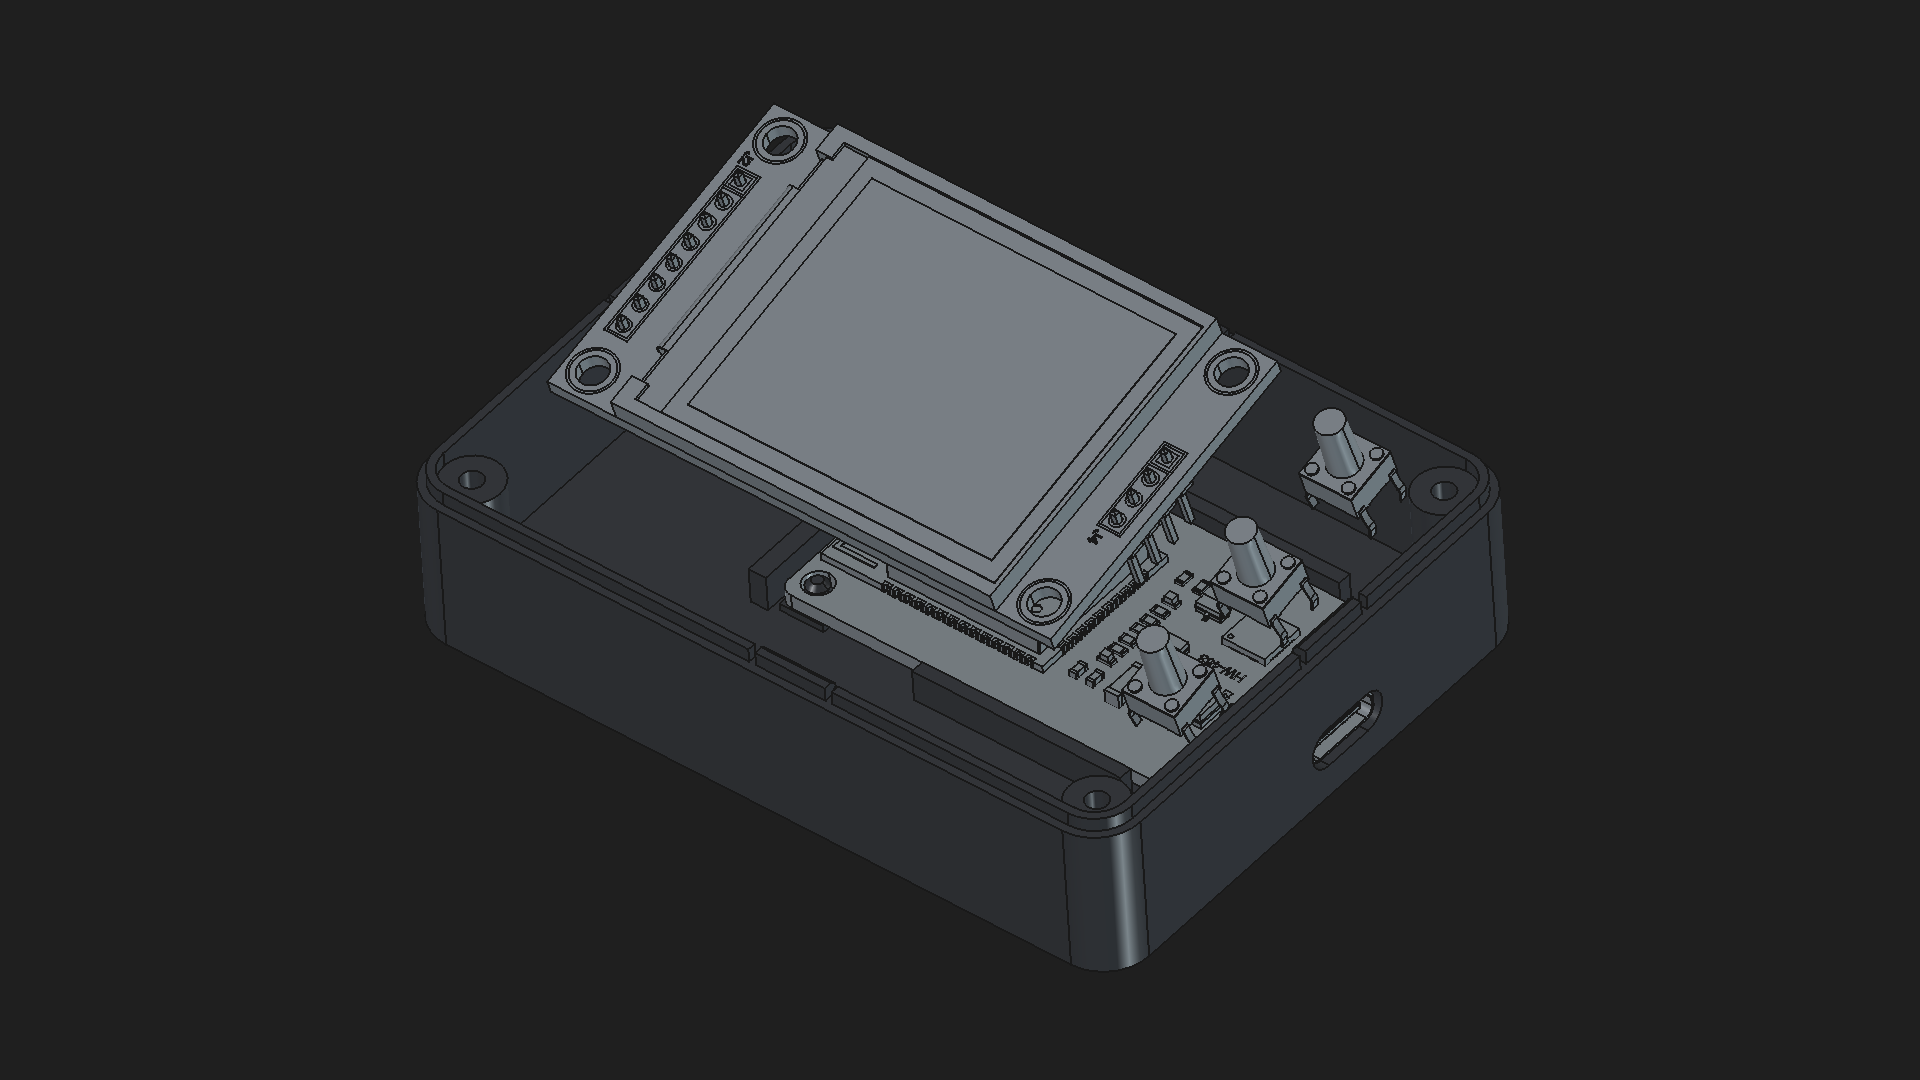
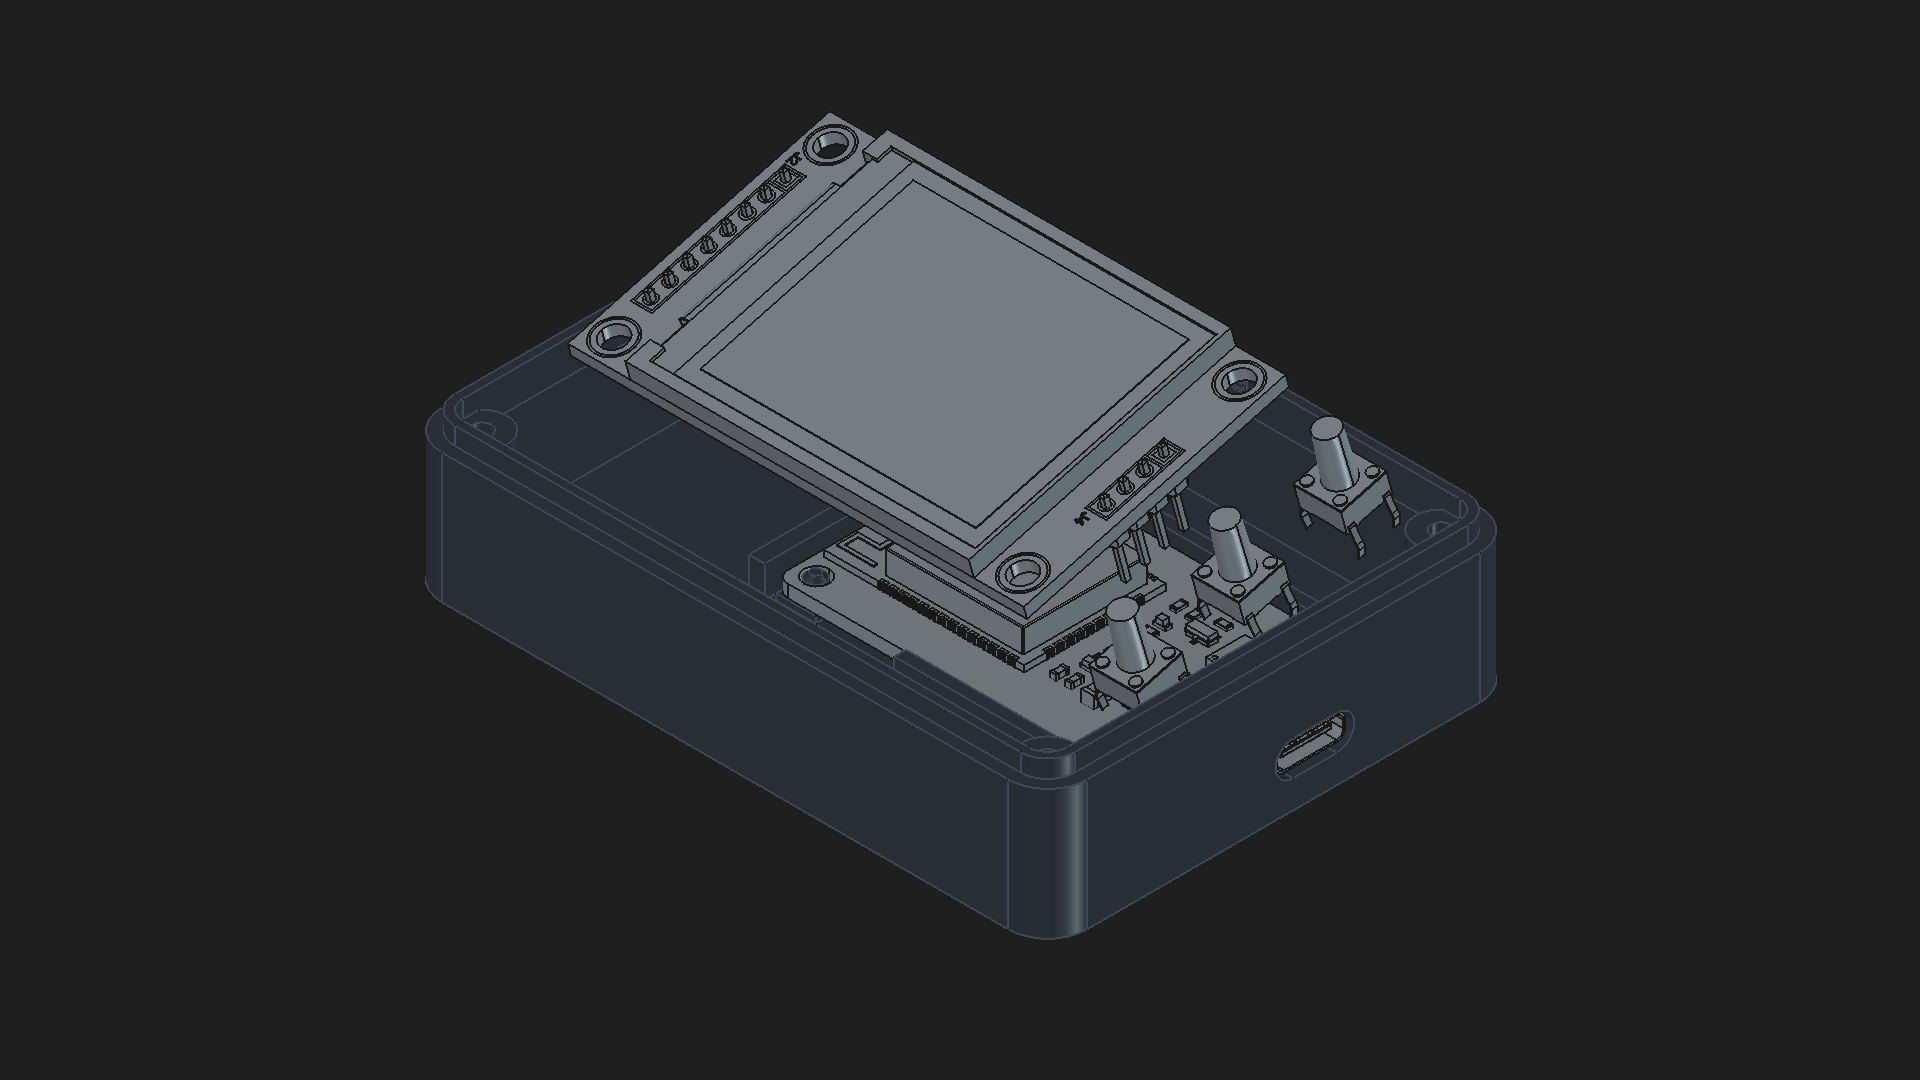
docs: integrate official circuit diagram, FreeCAD 3D enclosure renders, and full 4-tab web UI gallery

Changed region(s): [[0.2188, 0.0917, 0.8125, 0.9167]]

diff --git a/README.md b/README.md
@@ -23,7 +23,7 @@ FlyRadar32 is a standalone desktop aviation instrument powered by an ESP32 dual-
 - [System Architecture](#system-architecture)
 - [Key Features](#key-features)
 - [Hardware Specification and BOM](#hardware-specification-and-bom)
-- [Wiring and Pin Assignment](#wiring-and-pin-assignment)
+- [Circuit Diagram and Pinout](#circuit-diagram-and-pinout)
 - [3D Printable Enclosure](#3d-printable-enclosure)
 - [Embedded Web Dashboard](#embedded-web-dashboard)
 - [Firmware Build and Deployment](#firmware-build-and-deployment)
@@ -74,7 +74,7 @@ ADS-B APIs --+-> API Ingestion Engine                |    | 60 Hz Polar Sweep En
 - **Live Multi-Target ADS-B Tracking:** Decodes ICAO 24-bit transponder addresses, callsigns, barometric/geometric altitude, ground speed (knots), track heading (degrees), and vertical rate (feet/min).
 - **Tri-Tier Provider Redundancy:** Integrates `airplanes.live`, `adsb.lol`, and `OpenSky Network`. An automated circuit breaker detects consecutive network timeouts (3 strikes) and applies a cooldown backoff to prevent API starvation.
 - **Precision Polar Radar Graphics:** Plan Position Indicator (PPI) with a continuous sweep line, concentric range rings (5, 10, 25, 50, 100 NM), cardinal compass headings, and target history breadcrumb trails.
-- **Self-Contained Embedded Web Dashboard:** Zero-dependency responsive control panel served directly from ESP32 flash with live radar maps, target flight board, coordinate calibration, Wi-Fi management, and display preferences.
+- **Self-Contained Embedded Web Dashboard:** Zero-dependency responsive control panel served directly from ESP32 flash with live radar maps, target flight board, weather telemetry, coordinate calibration, Wi-Fi management, and display preferences.
 - **Captive Portal Field Deployment:** Launches an autonomous setup Access Point (`FlyRadar32-XXXX`) if configured Wi-Fi credentials fail, automatically redirecting connected mobile or desktop browsers to the provisioning console.
 - **Non-Volatile Configuration Memory:** Home coordinates, range limits, display brightness, screen themes, and API credentials persist across power cycles in ESP32 Non-Volatile Storage (NVS).
 
@@ -92,14 +92,22 @@ ADS-B APIs --+-> API Ingestion Engine                |    | 60 Hz Polar Sweep En
 
 ---
 
-## Wiring and Pin Assignment
+## Circuit Diagram and Pinout
+
+<div align="center">
+
+![FlyRadar32 Circuit Diagram](assets/FlyRadar32%20Diagram%201.8%20Inch%20TFT.jpg)
+
+</div>
+
+### Pinout Mapping
 
 | Function | ESP32 GPIO | Peripheral Pin | Description |
 |----------|------------|----------------|-------------|
 | Display SCLK | GPIO 18 | SCK / CLK | Hardware VSPI Clock (27 MHz) |
 | Display MOSI | GPIO 23 | SDA / DIN | Hardware VSPI Data |
 | Display CS | GPIO 5 | CS | Chip Select (Active Low) |
-| Display DC | GPIO 2 | DC / A0 | Data / Command Select |
+| Display DC | GPIO 2 | DC / AO | Data / Command Select |
 | Display RST | GPIO 4 | RES / RESET | Hardware Reset |
 | Display BL | GPIO 15 | BL / LED | Backlight Control |
 | Display VCC | 3V3 Rail | VCC | 3.3V Power Rail |
@@ -151,12 +159,17 @@ FlyRadar32 serves an asynchronous, zero-dependency web interface directly from i
 
 | Live Radar Scope | Air Traffic Flight Board |
 |:---:|:---:|
-| ![Live Radar Scope](assets/web_radar_scope.png) | ![Air Traffic Flight Board](assets/web_flight_board.png) |
+| ![Live Radar Scope](assets/flyradar_web_radar_tab_ss.png) | ![Air Traffic Flight Board](assets/flyradar_web_flightboard_tab_ss.png) |
+
+| Station Weather | Station Settings |
+|:---:|:---:|
+| ![Station Weather](assets/flyradar_web_station_weather_tab_ss.png) | ![Station Settings](assets/flyradar_web_settings_tab_ss.png) |
 
 </div>
 
 - **Live Scope:** Real-time canvas radar scope displaying aircraft positions, heading vectors, altitude color bands, and range scaling.
 - **Flight Board:** Tabular air traffic ledger with callsign search, hex code, altitude, speed, heading, and distance sorting.
+- **Station Weather:** Live local barometric and meteorological telemetry report.
 - **Station Settings:** Coordinate calibration, Wi-Fi network switching, refresh intervals, and display themes.
 
 ---
